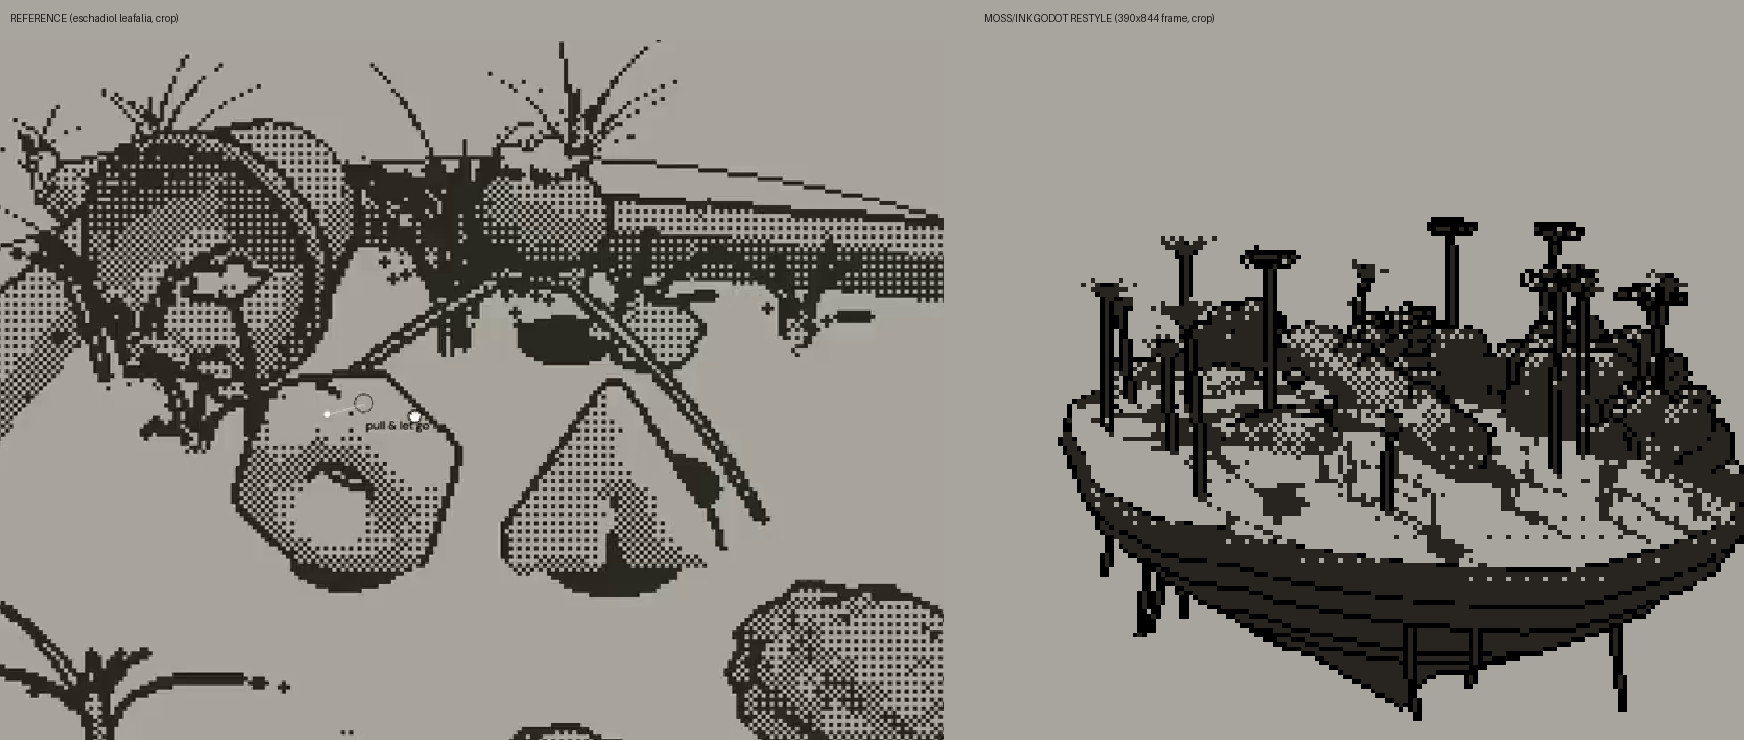
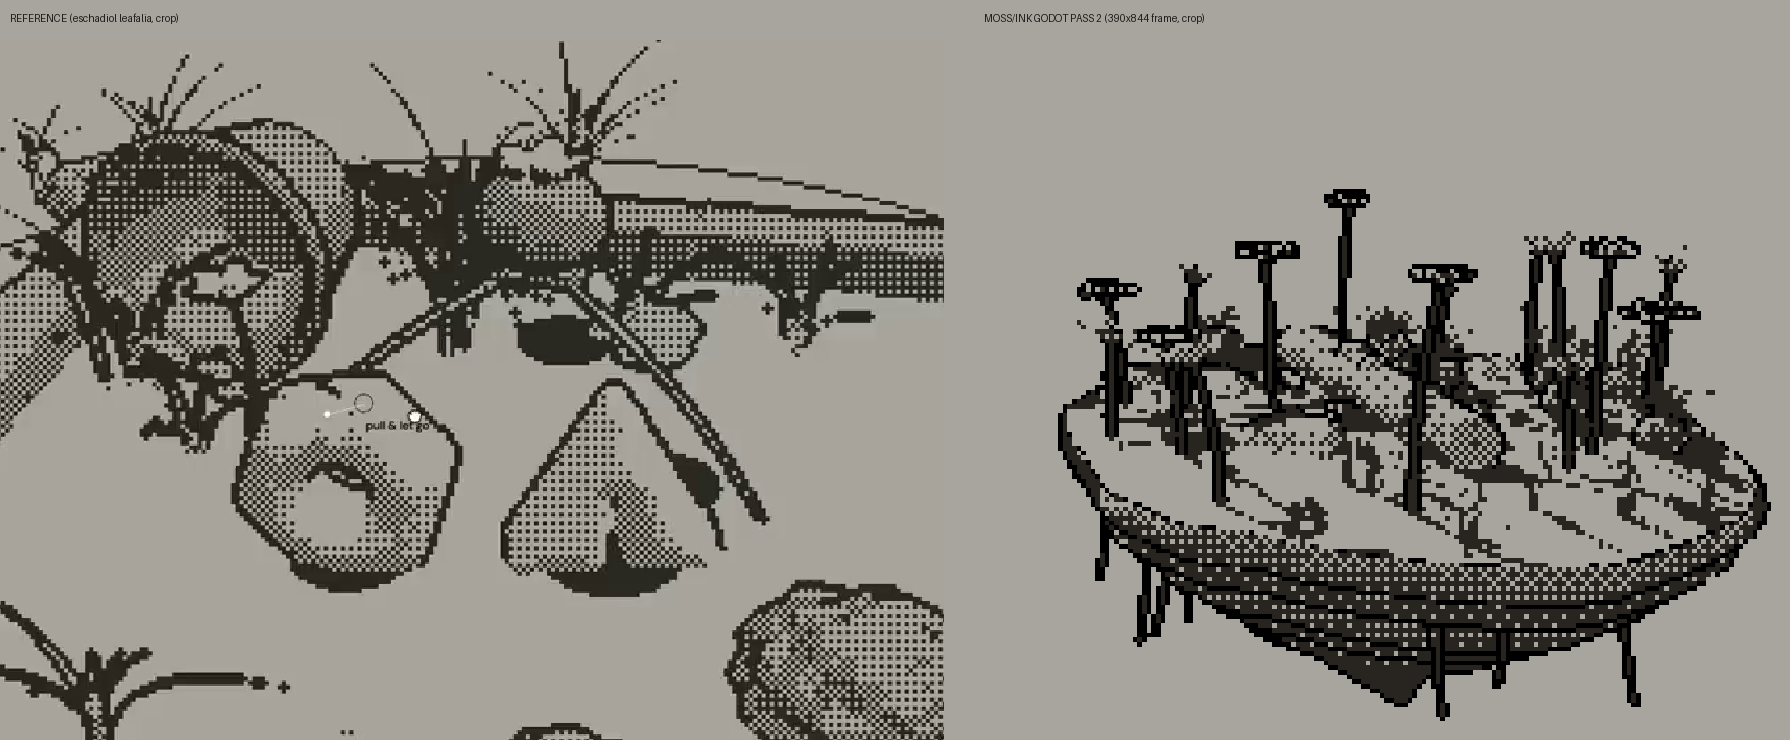
Pass 2: lighter value, dotted undersides, ink-line stems, stroke foliage

diff --git a/index.html b/index.html
@@ -38,7 +38,7 @@ body{background:#a8a59e;color:#28241f;overflow:hidden;touch-action:none;font-fam
 </div>
 <script src="index.js"></script>
 <script>
-const GODOT_CONFIG = {"args":[],"canvasResizePolicy":2,"emscriptenPoolSize":8,"ensureCrossOriginIsolationHeaders":true,"executable":"index","experimentalVK":true,"fileSizes":{"index.pck":211708,"index.wasm":39514754},"focusCanvas":true,"gdextensionLibs":[],"godotPoolSize":4};
+const GODOT_CONFIG = {"args":[],"canvasResizePolicy":2,"emscriptenPoolSize":8,"ensureCrossOriginIsolationHeaders":true,"executable":"index","experimentalVK":true,"fileSizes":{"index.pck":212044,"index.wasm":39514754},"focusCanvas":true,"gdextensionLibs":[],"godotPoolSize":4};
 const GODOT_THREADS_ENABLED = false;
 (function () {
   const boot = document.getElementById('boot'), fill = document.getElementById('fill');
